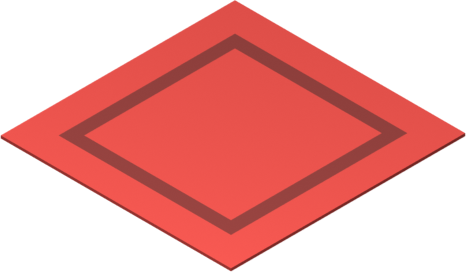
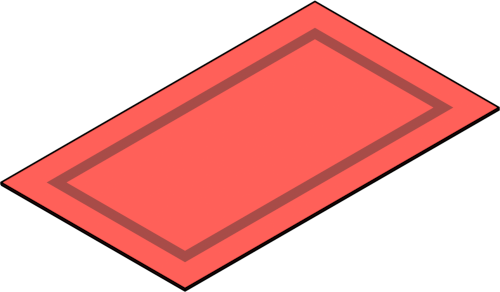
Added missing assets

diff --git a/lib/pages/homePage/room_data.dart b/lib/pages/homePage/room_data.dart
@@ -30,7 +30,7 @@ Room bedroom = Room(
   extendLeft: 200,
   extendRight: 150,
   unlockOrder: 1,
-  floorTexture: "assets/textures/lightWood.jpg",
+  floorTexture: "assets/textures/woodBoards.jpg",
   wallTexture: "assets/textures/greyWall.jpg",
   items: [
     FurnitureSlot(
@@ -77,13 +77,29 @@ Room livingroom = Room(
       variant: '',
     ),
     FurnitureSlot(
+      width: 70,
+      height: 70,
+      distanceFromLeft: .1,
+      distanceFromRight: .7,
+      type: 'tv',
+      variant: '',
+    ),
+    FurnitureSlot(
       width: 60,
       height: 60,
       distanceFromLeft: .6,
       distanceFromRight: .23,
       type: 'sofa',
       variant: null,
-    )
+    ),
+    FurnitureSlot(
+      width: 150,
+      height: 150,
+      distanceFromLeft: .5,
+      distanceFromRight: .5,
+      type: 'rug',
+      variant: null,
+    ),
   ],
 );
 
@@ -127,31 +143,23 @@ Room kitchen = Room(
   extendLeft: 150,
   extendRight: 200,
   unlockOrder: 4,
-  floorTexture: "assets/textures/bathroomTiles.jpg",
+  floorTexture: "assets/textures/woodBoards.jpg",
   wallTexture: "assets/textures/floralWall.jpg",
   items: [
     FurnitureSlot(
-      width: 70,
-      height: 70,
-      distanceFromLeft: .1,
-      distanceFromRight: .05,
+      width: 60,
+      height: 60,
+      distanceFromLeft: .15,
+      distanceFromRight: .08,
       type: 'refridgerator',
       variant: null,
     ),
     FurnitureSlot(
-      width: 40,
-      height: 40,
-      distanceFromLeft: .52,
-      distanceFromRight: .2,
-      type: 'kitchen_cabinet',
-      variant: '',
-    ),
-    FurnitureSlot(
-      width: 40,
-      height: 40,
-      distanceFromLeft: .68,
-      distanceFromRight: .2,
-      type: 'kitchen_sink',
+      width: 80,
+      height: 60,
+      distanceFromLeft: .55,
+      distanceFromRight: .15,
+      type: 'kitchencounters',
       variant: '',
     ),
   ],
@@ -177,7 +185,7 @@ Room hall = Room(
       width: 60,
       height: 60,
       distanceFromLeft: .02,
-      distanceFromRight: .3,
+      distanceFromRight: .7,
       type: 'door_NW',
       variant: '',
     ),

diff --git a/lib/pages/storePage/store_data.dart b/lib/pages/storePage/store_data.dart
@@ -56,21 +56,39 @@ const List<StoreItem> storeItems = [
     variant: '3',
   ),
   StoreItem(
-    name: 'Red Couch',
+    name: 'Red Sofa',
     price: 300,
     type: 'sofa',
     variant: '1',
   ),
   StoreItem(
-    name: 'Blue Couch',
+    name: 'Blue Sofa',
     price: 350,
     type: 'sofa',
     variant: '2',
   ),
   StoreItem(
-    name: 'Purple Couch',
+    name: 'Purple Sofa',
     price: 400,
     type: 'sofa',
+    variant: '3',
+  ),
+  StoreItem(
+    name: 'Red Rug',
+    price: 300,
+    type: 'rug',
+    variant: '1',
+  ),
+  StoreItem(
+    name: 'Blue Rug',
+    price: 350,
+    type: 'rug',
+    variant: '2',
+  ),
+  StoreItem(
+    name: 'Purple Rug',
+    price: 400,
+    type: 'rug',
     variant: '3',
   ),
   StoreItem(

diff --git a/lib/widgets/furniture_card.dart b/lib/widgets/furniture_card.dart
@@ -21,7 +21,7 @@ class FurnitureCard extends StatelessWidget {
               height: furniture.height,
               width: furniture.width,
             )
-          : ['bed', 'chair', 'sofa', 'refridgerator'].contains(furniture.type)
+          : ['bed', 'chair', 'sofa', 'refridgerator', 'rug'].contains(furniture.type)
               ? Image.asset(
                   // TODO: make outlines for each selectable furniture
                   'assets/furniture/${furniture.type}_outline.png',
